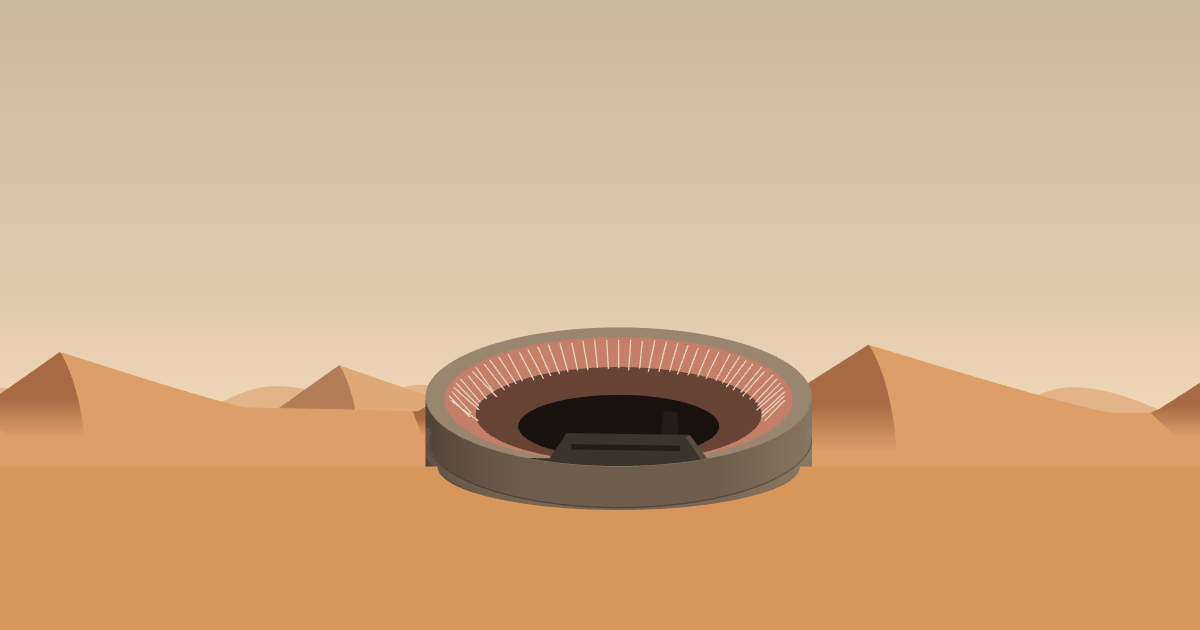
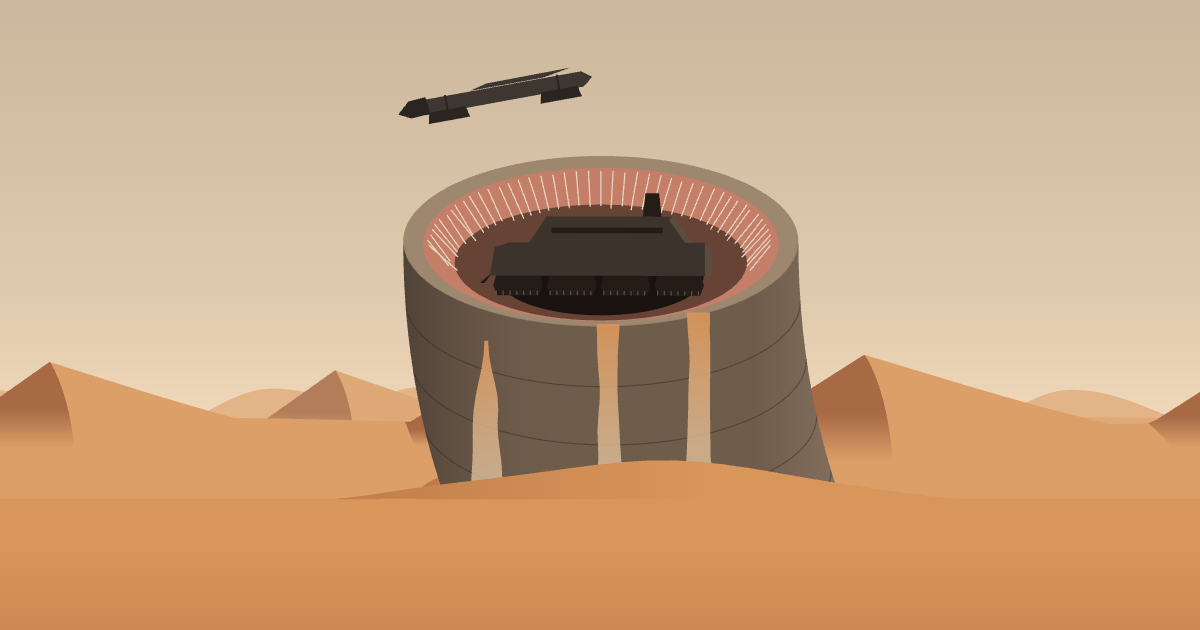
Maker: the share card is the machine in the risen mouth (89.2 s); the pour's falling tails taper

Changed region(s): [[0.0, 0.2413, 0.9867, 0.8143], [0.3392, 0.0905, 0.4933, 0.2111], [0.9867, 0.6032, 1.0, 0.6333]]

diff --git a/apps/rube/src/shows/versions/harkonnen-arena/maker/scenes/desert/maw.ts b/apps/rube/src/shows/versions/harkonnen-arena/maker/scenes/desert/maw.ts
@@ -152,8 +152,9 @@ function paintPour(b: Brush, t: number, y: number, rx: number, ry: number): void
       for (let j = 0; j <= m; j++) {
         const s = j / m
         const yy = top + (0.4 - top) * s
-        // Narrowing as it falls, spreading where it lands; its edges rippling downward.
-        const hw = (w / 2) * (1 - 0.45 * s + 0.9 * s * s * s) * (1 + 0.12 * noise1((yy - 9 * t) * 0.35, i * 5 + sgn))
+        // Narrowing as it falls, spreading where it lands; its edges rippling downward; a falling tail drawn to a point.
+        const tail = s0 > 0 ? 0.15 + 0.85 * smooth(s, 0, 0.45) : 1
+        const hw = (w / 2) * tail * (1 - 0.45 * s + 0.9 * s * s * s) * (1 + 0.12 * noise1((yy - 9 * t) * 0.35, i * 5 + sgn))
         pts.push([x + sgn * hw, yy])
       }
       return pts

diff --git a/apps/rube/src/shows/versions/harkonnen-arena/opus55.show.ts b/apps/rube/src/shows/versions/harkonnen-arena/opus55.show.ts
@@ -9,6 +9,6 @@ export default defineShow({
   title: 'Maker',
   label: 'Opus 5.5',
   about: "Hans Zimmer's Harkonnen Arena, from Denis Villeneuve's Dune: Part Two, as a machine of sand with a blue ball for its hero: the harvester taken, the first worm ride, the black sun over the arena, and the charge out of the storm.",
-  still: 91,
+  still: 89.2,
   async load() { return (await import('./maker')).performance },
 })
